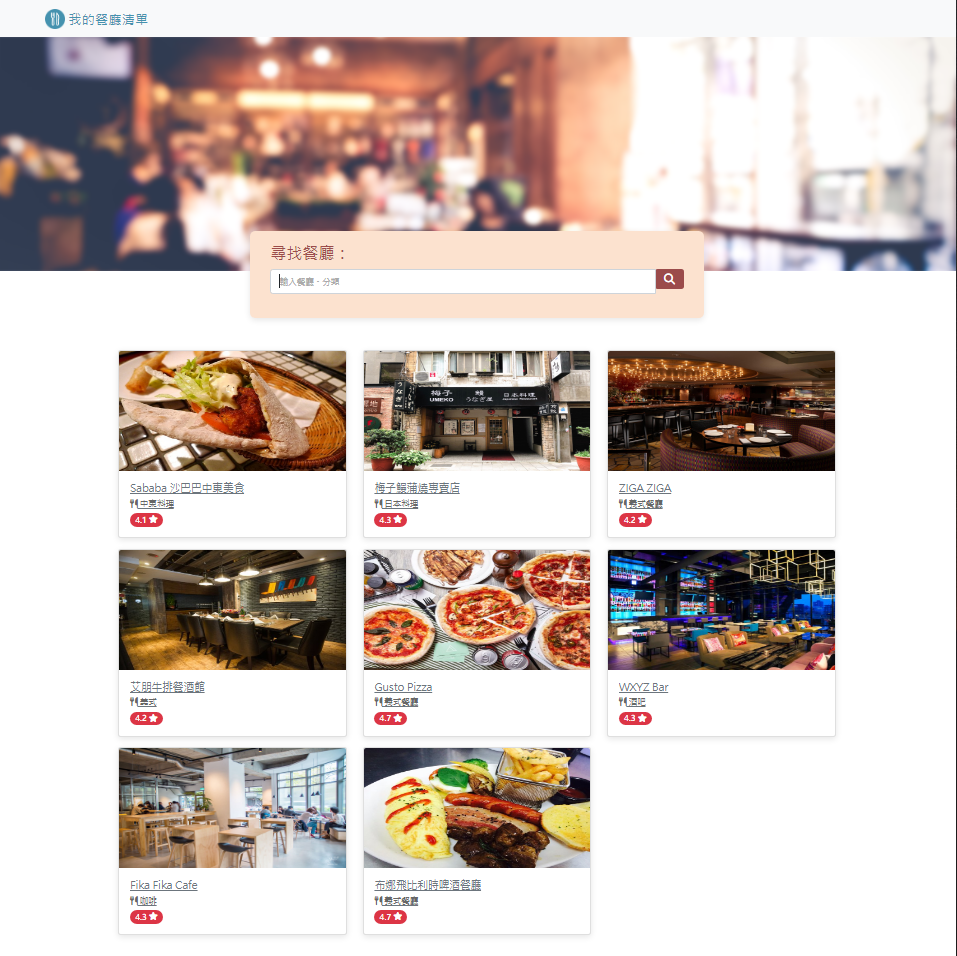
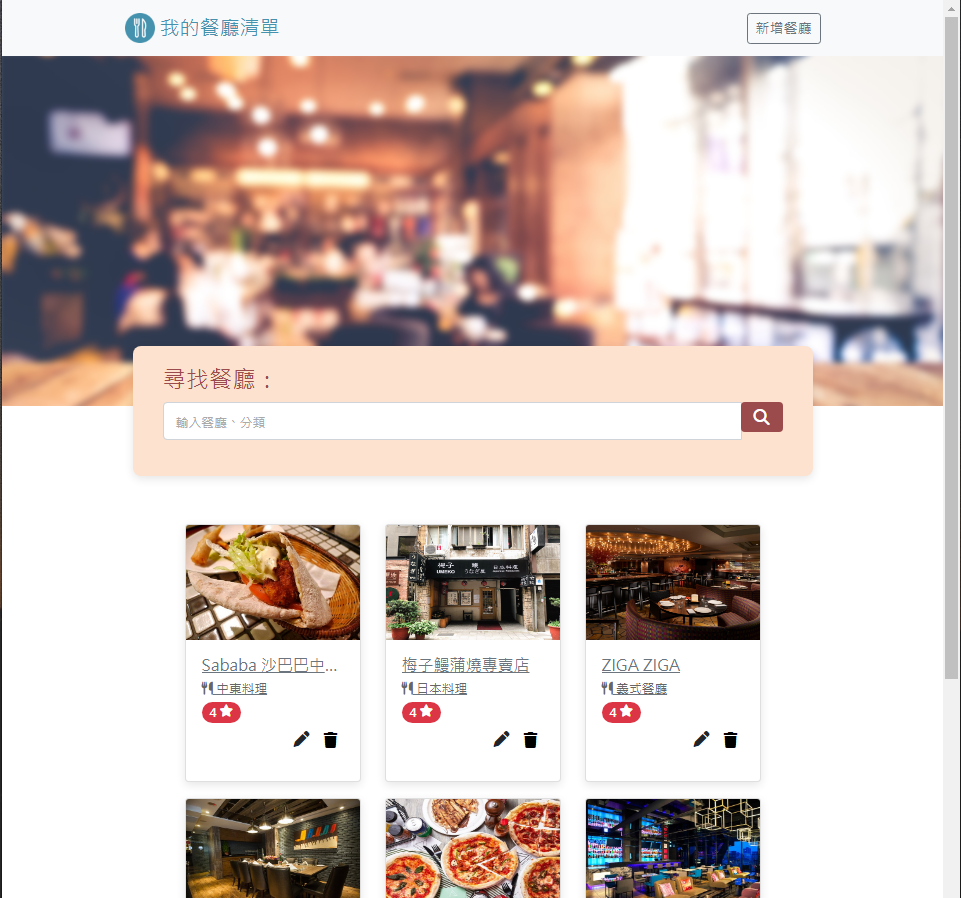
update: readme

diff --git a/README.md b/README.md
@@ -1,6 +1,6 @@
 # 介紹
 
-可以瀏覽餐廳、查看詳細資訊
+使用者可以收藏自己喜歡的餐廳，並記錄其詳細資訊。
 
 ## 畫面
 
@@ -8,7 +8,7 @@
 
 ## 功能
 
-1.可瀏覽所有餐廳 2.可點擊餐廳，查看詳細資訊
+1.使用者可瀏覽所有餐廳 2.使用者可點擊餐廳，查看詳細資訊 3.使用者可以新增、修改、刪除餐廳
 
 ## 環境建置與需求
 
